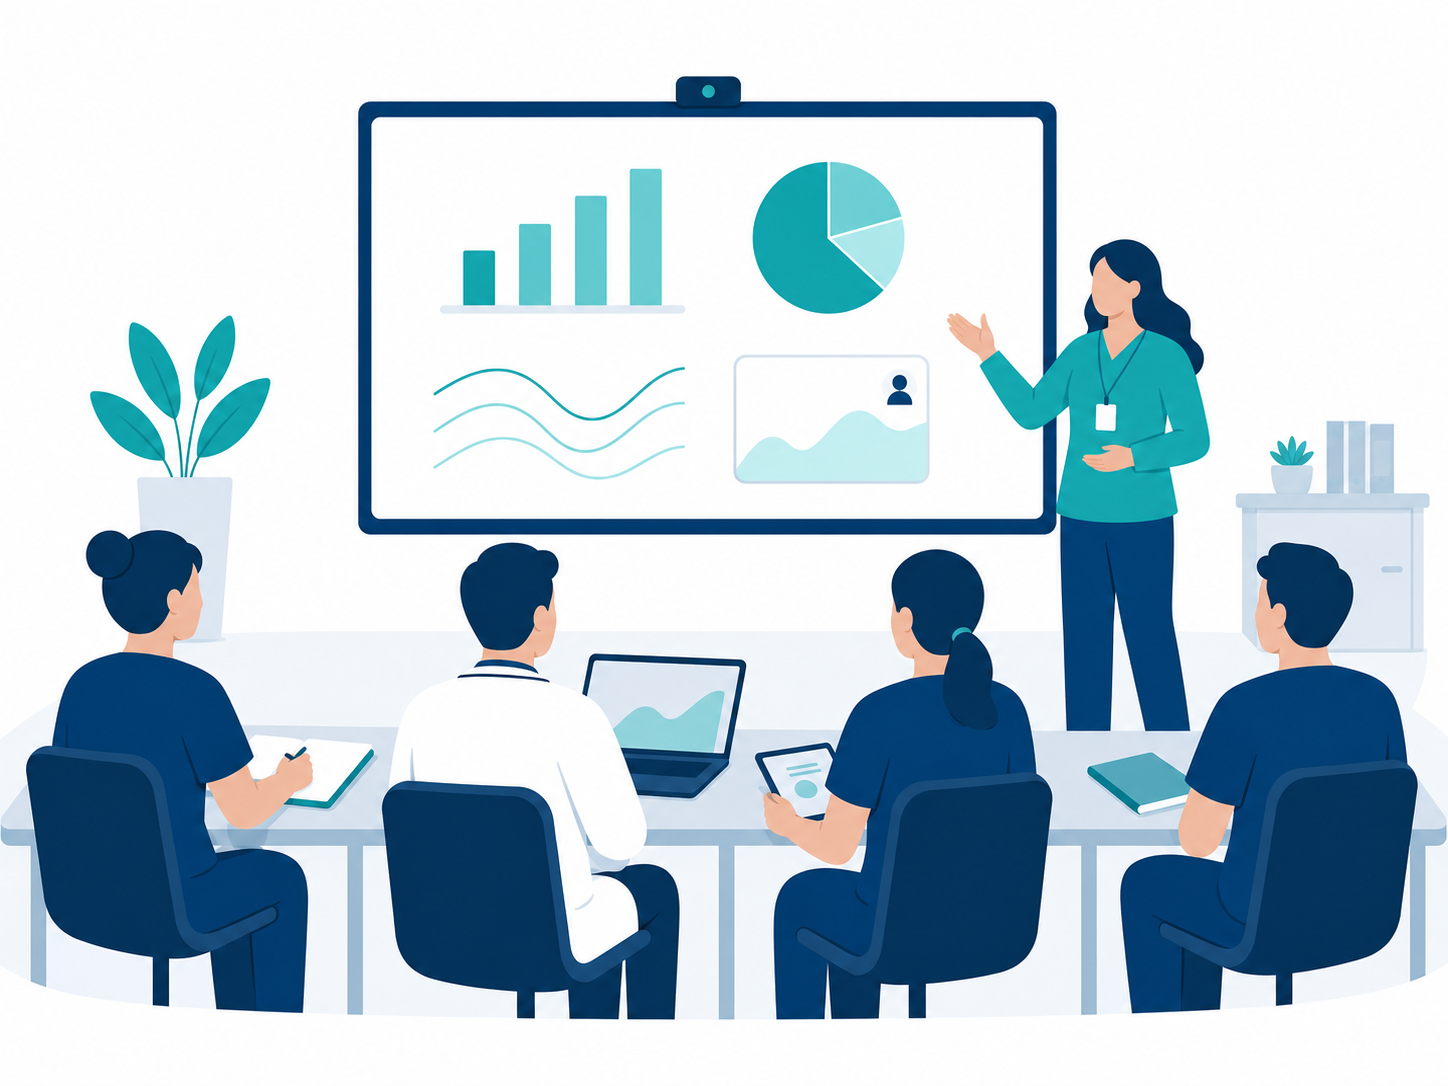
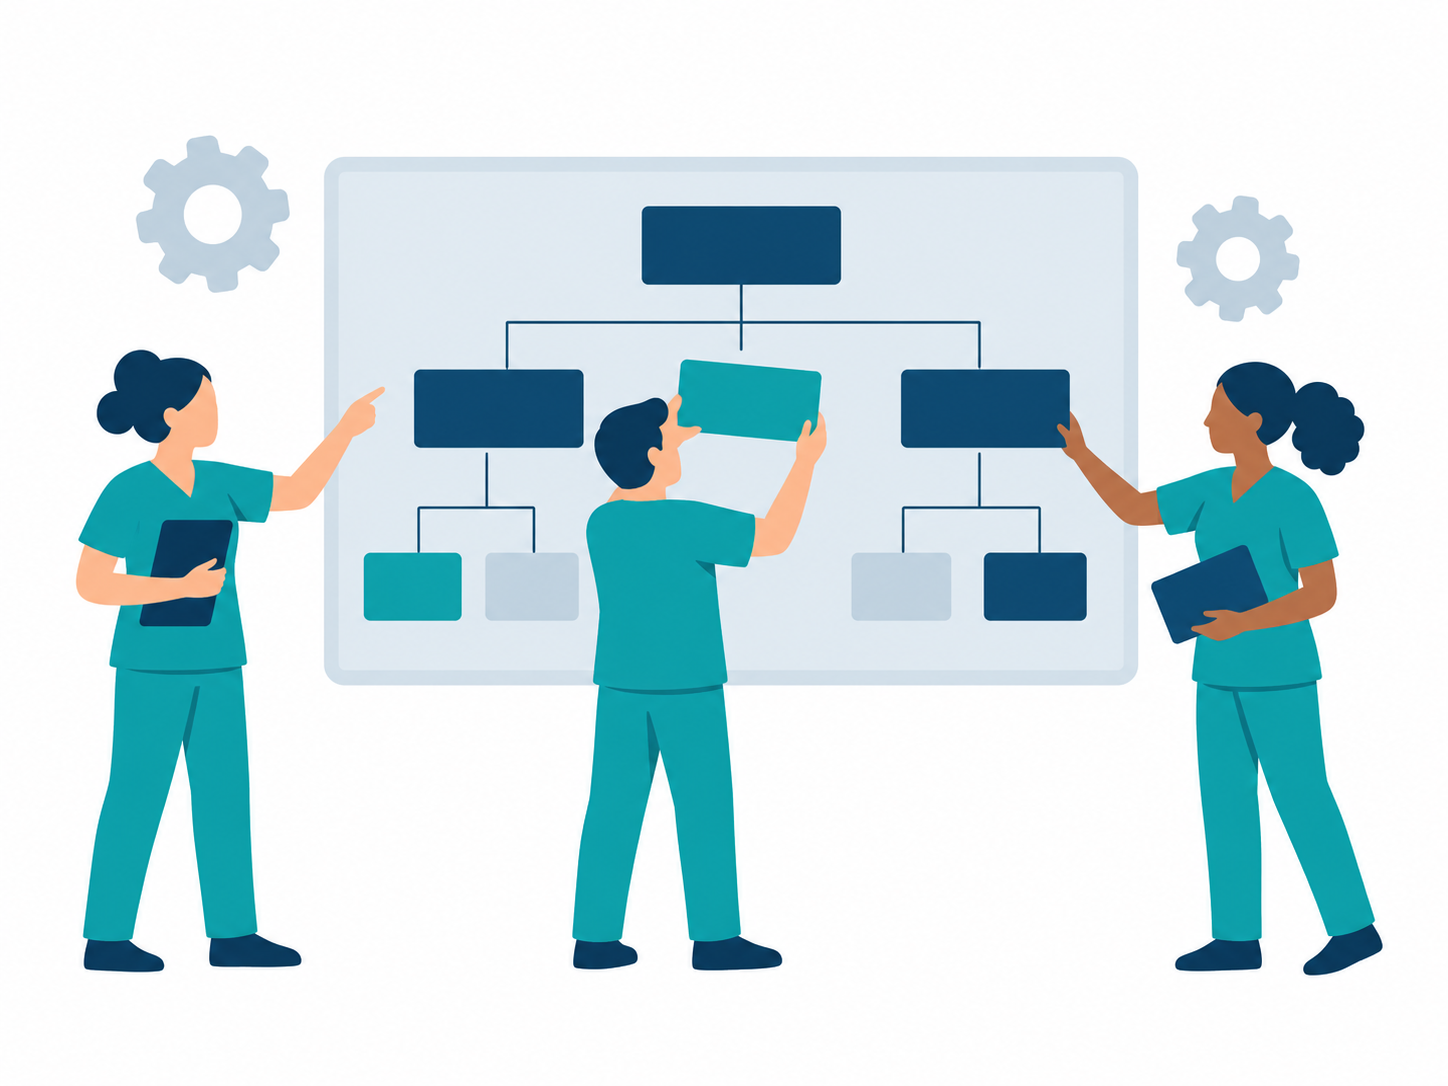
本番 index.html に組織再編の第4の柱と研修04を追加する。

diff --git a/index.html b/index.html
@@ -567,7 +567,7 @@ body{font-size:calc(16px*var(--tsc))}
     <div class="head-center reveal">
       <span class="eyebrow">OUR BUSINESS</span>
       <h2 class="sec-title">事業内容</h2>
-      <p class="sec-lead">医療機関・施設が組織全体でAIを安全に活用できるよう、3つの柱で支援します。目指すのは「全員が参加し、組織全体が変わる」仕組みづくりです。</p>
+      <p class="sec-lead">医療機関・施設が組織全体でAIを安全に活用できるよう、4つの柱で支援します。目指すのは「全員が参加し、組織全体が変わる」仕組みづくりです。</p>
     </div>
     <div class="biz-rows">
 
@@ -615,6 +615,21 @@ body{font-size:calc(16px*var(--tsc))}
             <li>取得後は資格証で個人の学びの成果を証明</li>
           </ul>
           <a href="#individual" class="more">個人認定の詳細を見る <span class="arrow">→</span></a>
+        </div>
+      </div>
+
+      <!-- 04 組織再編・職務再設計 -->
+      <div class="biz-row rev reveal">
+        <img class="biz-ph" src="images/business04.png" alt="AIによる組織再編と職務再設計">
+        <div class="biz-tx">
+          <span class="num">04 &nbsp;/&nbsp; ORGANIZATION</span>
+          <h3>組織再編と職務再設計<span class="tag">生産性向上</span></h3>
+          <p class="lead">AIの効果は、ツールを入れた時点ではなく、業務の分担と手順を組み替えたときに表れます。どの業務をAIに任せ、空いた時間を何に振り向けるのか。職務の再設計から組織体制の見直しまで、施設の実情に合わせて設計を支援します。相応の組織改革を伴うため、段階を踏んで進めることを前提としています。</p>
+          <ul>
+            <li>業務の棚卸しと、AIに任せられる領域・任せない領域の切り分け</li>
+            <li>職務分掌・承認フロー・記録の流れの再設計</li>
+            <li>段階的な移行計画と、現場に定着するまでの伴走</li>
+          </ul>
         </div>
       </div>
 
@@ -703,6 +718,14 @@ body{font-size:calc(16px*var(--tsc))}
           <div class="curr-no">03</div>
           <h4>実際の事例で学ぶ、現場での線引き</h4>
           <p>ヒヤリハットや「これはアウト・これはOK」の具体事例、うまく活用できている現場の例を紹介。グループワークを通じて、明日から使える判断力を養います。</p>
+        </div>
+      </div>
+      <div class="curr-row reveal">
+        <img class="curr-ph" src="images/content04.png" alt="AIによる組織再編と職務再設計の研修">
+        <div class="curr-tx">
+          <div class="curr-no">04</div>
+          <h4>AIによる組織再編と職務再設計</h4>
+          <p>AIで生産性を上げるには、ツールを導入するだけでは足りません。どの業務を誰が担い、承認や記録の流れをどう組み替えるのか。職務と組織のかたちそのものを見直すための考え方と、現場を止めずに進める手順を扱います。</p>
         </div>
       </div>
     </div>
